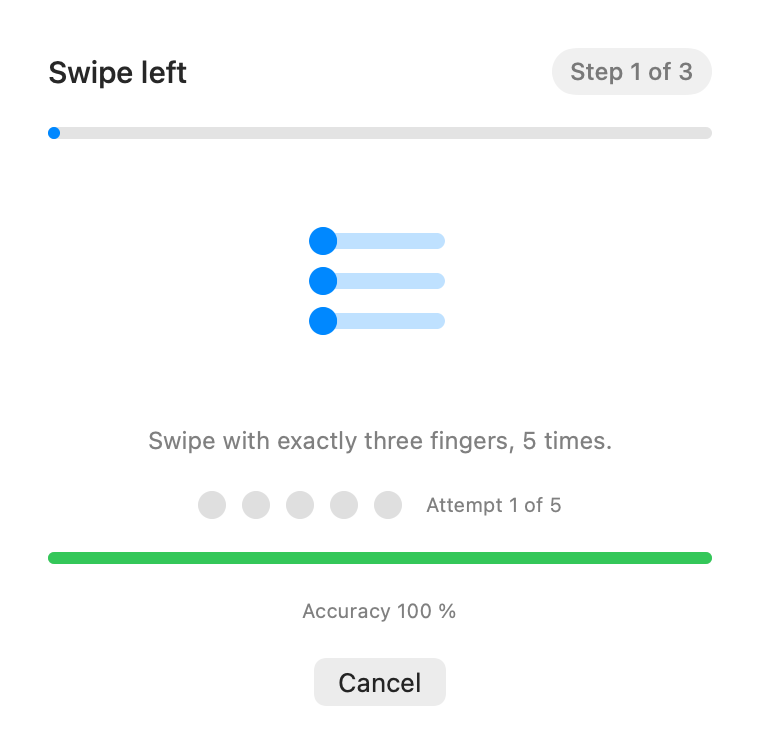
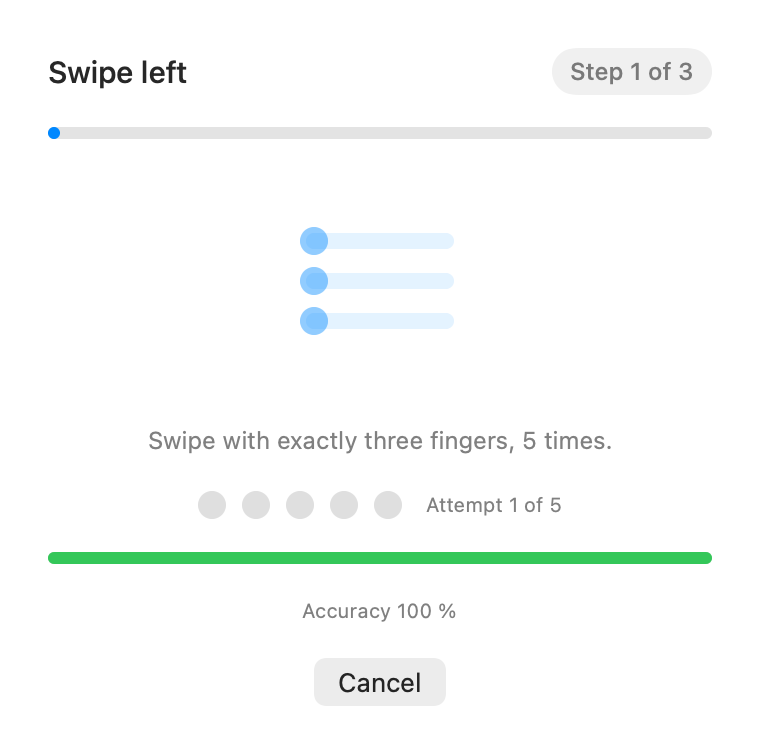
Neutral build-date format (dd.MM.yyyy) + cleanup pass
- Guide footer / README screenshot: locale-neutral date (06.07.2026, 22:15)
  instead of a localized month name
- Cleanup verified: git clean, no active changes, no dead code, no tracked
  artifacts; 108 tests + acceptance ALL PASS (idle 0.70/0.75/0.05%). The
  earlier acceptance CPU failure was a leftover Tiler instance contending
  during measurement, not a regression.

Changed region(s): [[0.3934, 0.305, 0.6053, 0.4576]]

diff --git a/Sources/Tiler/GuideWindow.swift b/Sources/Tiler/GuideWindow.swift
@@ -323,14 +323,18 @@ struct GuideView: View {
         Bundle.main.infoDictionary?["CFBundleShortVersionString"] as? String ?? AppDelegate.version
     }
 
-    /// Build stamp is ISO8601 UTC in Info.plist; shown in the user's local time.
+    /// Build stamp is ISO8601 UTC in Info.plist; shown in the user's local time with
+    /// a locale-neutral numeric format (dd.MM.yyyy, HH:mm) — no localized month names.
     private var buildDate: String {
         guard let raw = Bundle.main.infoDictionary?["TilerBuildDate"] as? String else {
             return "from source (swift run)"
         }
         let parser = ISO8601DateFormatter()
         guard let date = parser.date(from: raw) else { return raw }
-        return date.formatted(date: .abbreviated, time: .shortened)
+        let df = DateFormatter()
+        df.locale = Locale(identifier: "en_US_POSIX")
+        df.dateFormat = "dd.MM.yyyy, HH:mm"
+        return df.string(from: date)
     }
 
     // MARK: - Bits

diff --git a/Sources/Tiler/AppDelegate.swift b/Sources/Tiler/AppDelegate.swift
@@ -5,7 +5,7 @@ import TilerSystem
 
 @MainActor
 final class AppDelegate: NSObject, NSApplicationDelegate, NSMenuDelegate {
-    static let version = "0.2.5"
+    static let version = "0.2.6"
 
     private var statusItem: NSStatusItem?
     private var touchStream: TouchStream?

diff --git a/openspec/project.md b/openspec/project.md
@@ -69,4 +69,4 @@ no-scroll layout, release 0.2.0 tooling), `2026-07-05-add-thirds-lock-help`
 (⇧+up → center-third), `2026-07-05-split-hotkey-groups` (independent window/utility
 hotkey toggles, window group OFF by default; calibration step sound),
 `2026-07-06-add-snap-glyphs` (cheat-sheet placement diagrams). Specs in
-`openspec/specs/` are current truth. Released: v0.2.5 (GitHub release with zip).
+`openspec/specs/` are current truth. Released: v0.2.6 (GitHub release with zip).